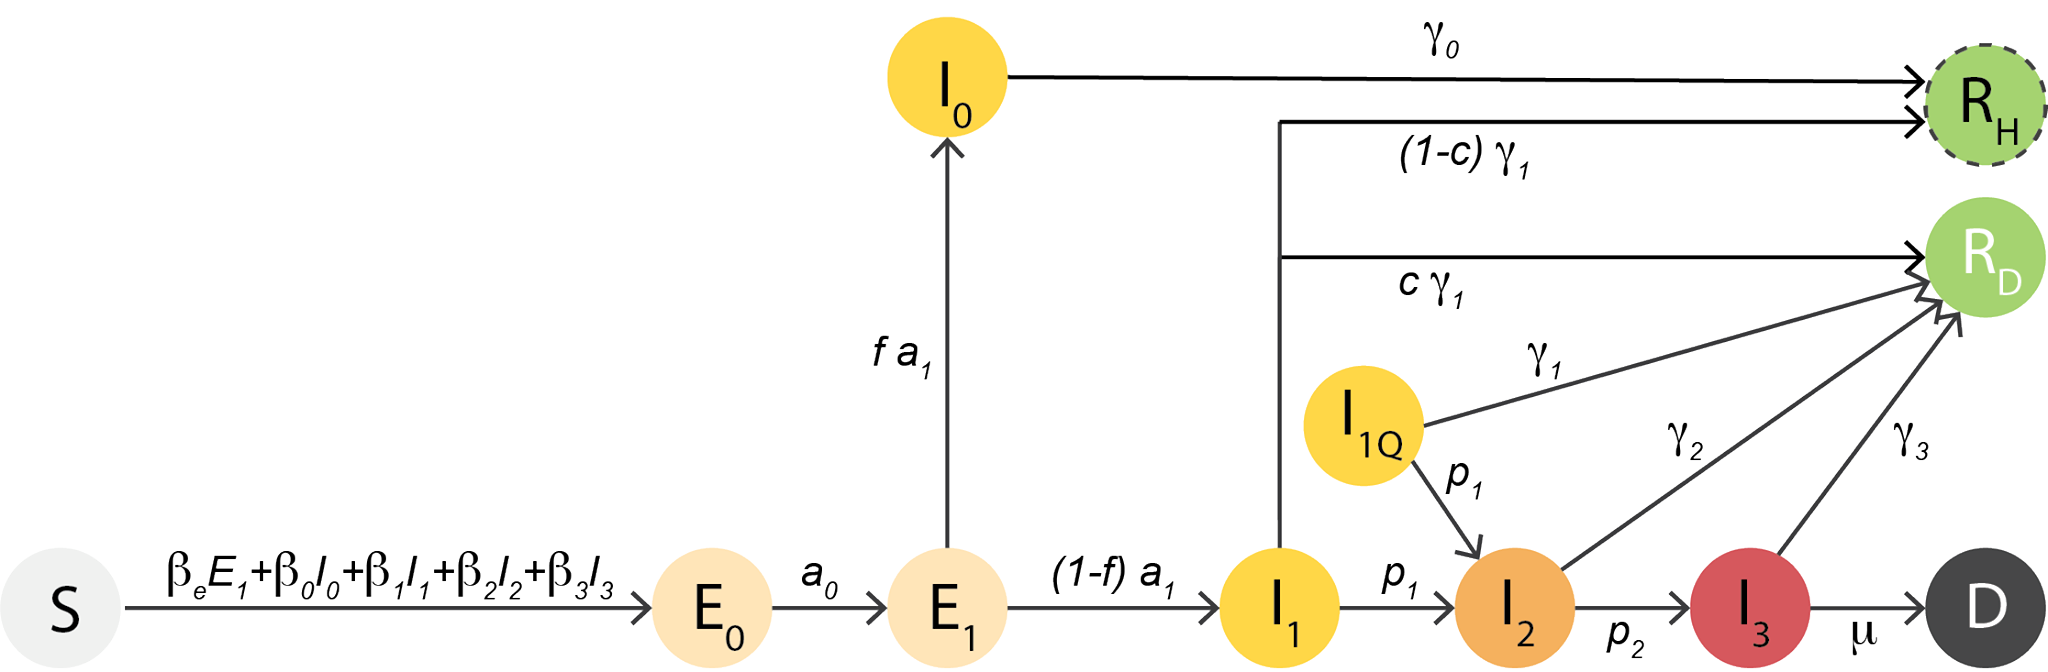
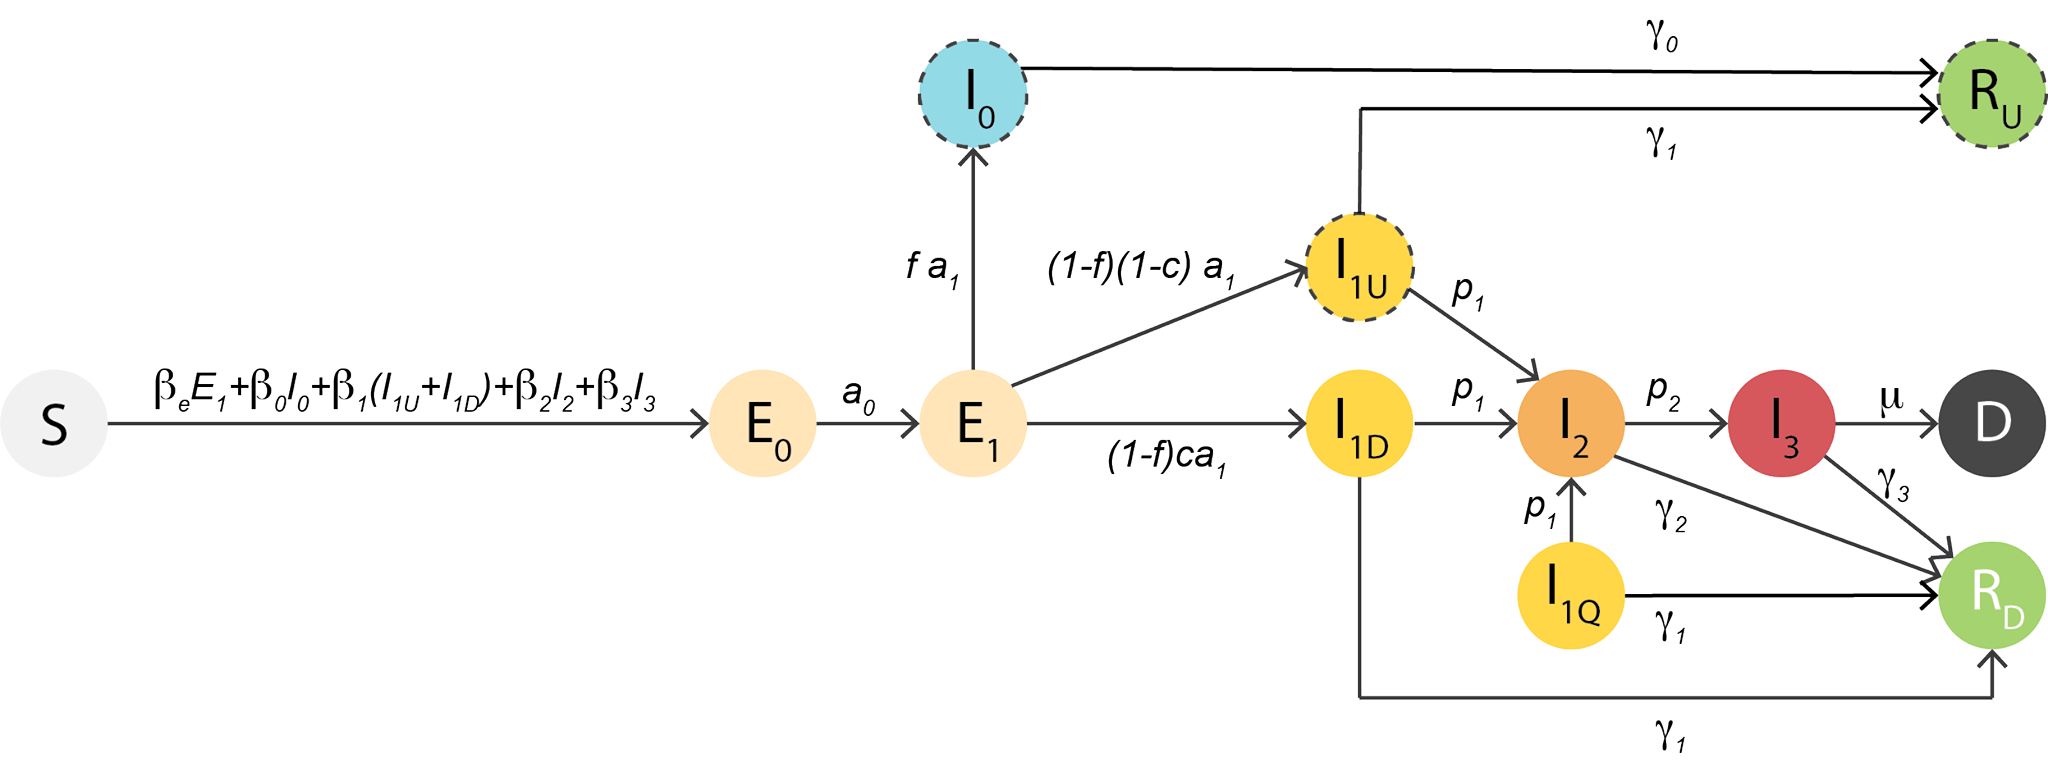
Updated model schematic. Added code to show the prediction error as parameters are changed.

diff --git a/dashboard/plot_data.js b/dashboard/plot_data.js
@@ -31,24 +31,25 @@ var data_start_dates = {
     "Sri Lanka": "2020-03-01"
 };
 
-var custom_interventions = {
+var custom_country_data = {
   "Sri Lanka" : {
-      t_start: [0, 13],
-      b1N: [0.85, 0.125],
-      b2N: [0, 0],
+      t_start: [0, 13], //indices to start dates of any interventions
+      b1N: [0.85, 0.125], //values of b1N for each intervention segment defined in t_start
+      b2N: [0, 0], //values of b2N
       b3N: [0, 0],
-      diag_frac: [0.11, 0.11]
+      diag_frac: [0.11, 0.11],
+      E0_0: 5, //no. of individuals exposed at start
+      Rd_0: 1, //no. of recovered-diagnosed individuals at start
   }
 }
 
 //The control parameters will be set to these default values when the user first loads the page.
 var default_controls = {
   T_pred: 7,    //prediction length
-  b1N: 0.3,     //beta_1 value
+  b1N: 0.0,     //beta_1 value
   b2N: 0.0,     //beta_2 value
   b3N: 0.0,     //beta_3 value
-  diag_frac: 0.5,
-  country: "Sri Lanka"
+  diag_frac: 0.5 //fraction of mild-patients that are diagnosed
 }
 
 //Storage for real and predicted data to be plotted on chart: {categorized, total}
@@ -62,14 +63,13 @@ var control_chart_active_point = null;
 var control_chart_canvas = null;
 var last_active_tooltip_day = 0;
 var active_control_parameter = "b1N";
-var active_country = default_controls.country;
+var active_country = "Sri Lanka";
 
 
 window.onload = function()
 {
   generateCountryDropDown();
-
-  changeCountry(default_controls.country);
+  changeCountry(active_country);
 
   //Update UI controls to match default values
   document.getElementById("slider_finalT").value = default_controls.T_pred;
@@ -90,7 +90,7 @@ function generateCountryDropDown()
     option.text = name;
     menu.add(option);
   }
-  menu.value = default_controls.country;
+  menu.value = active_country;
 }
 
 function changeCountry(country_name)
@@ -98,9 +98,9 @@ function changeCountry(country_name)
   active_country = country_name;
   data_real = getCountryData(country_name);
   sim_params = initializeSimulationParameters(data_real.total.length, default_controls.T_pred);
-  customizeParametersByCountry(country_name, sim_params);
 
   data_predicted = getPredictionData(data_real.total[0].t);
+  document.getElementById("prediction_error").innerHTML = getCurrentPredictionError().toFixed(3);
 
   if (main_chart)
     refreshAllChartData();
@@ -162,20 +162,27 @@ function getCountryData(country_name)
 
 function customizeParametersByCountry(country_name, params)
 {
-  let intervention_data = custom_interventions[country_name];
-  if (intervention_data)
+  let data = custom_country_data[country_name];
+  if (data)
   {
-    for (let i = 0; i < intervention_data.t_start.length; ++i)
+    for (let i = 0; i < data.t_start.length; ++i)
     {
-      let j_end = (i < intervention_data.t_start.length-1) ? intervention_data.t_start[i+1] : params.b1N.length;
-      for (let j = intervention_data.t_start[i]; j < j_end; ++j)
+      let j_end = (i < data.t_start.length-1) ? data.t_start[i+1] : params.b1N.length;
+      for (let j = data.t_start[i]; j < j_end; ++j)
       {
-        params.b1N[j] = intervention_data.b1N[i];
-        params.b2N[j] = intervention_data.b2N[i];
-        params.b3N[j] = intervention_data.b3N[i];
-        params.diag_frac[j] = intervention_data.diag_frac[i];
+        params.b1N[j] = data.b1N[i];
+        params.b2N[j] = data.b2N[i];
+        params.b3N[j] = data.b3N[i];
+        params.diag_frac[j] = data.diag_frac[i];
       }
     }
+
+    //Update initial E0 and Ru
+    if (data.E0_0)
+      params.E0_0 = data.E0_0;
+
+    if (data.Rd_0)
+      params.Rd_0 = data.Rd_0;
   }
 
   //Update quarantine input data
@@ -183,12 +190,11 @@ function customizeParametersByCountry(country_name, params)
     params.quarantine_input[i] = data_real.categorized[i].y[3];
 
   //Update population
-  params.population = population_data[country_name];
-  if (!params.population)
-  {
+  let N = population_data[country_name];
+  if (N)
+    params.population = N;
+  else
     console.log("Population data not found!");
-    params.population = 10E+6;
-  }
 }
 
 function formatNumber(num) {
@@ -820,9 +826,9 @@ function initializeSimulationParameters(hist_length, pred_length)
     b3N: new Array(total_length).fill(default_controls.b3N),            //transmission rate from critical to susceptible
     quarantine_input: new Array(total_length).fill(0.0),                //no. of patients added directly to quarantine
     diag_frac: new Array(total_length).fill(default_controls.diag_frac),//fraction of I1 patients that are diagnosed
-    population: population_data[default_controls.country],              //population of Sri Lanka
-    E0_0: 5,                                                            //number of non-infectious exposed individuals at start
-    Rd_0: 1,                                                            //number of recovered-diagnosed individuals at start
+    population: 1E7,                                                    //population of country
+    E0_0: 1,                                                            //number of non-infectious exposed individuals at start
+    Rd_0: 0,                                                            //number of recovered-diagnosed individuals at start
     //rate parameters below [1/day]
     a0: (1/T_incub0) * prob_E0_E1,
     a10: (1/T_incub1) * prob_E1_I0,
@@ -835,6 +841,9 @@ function initializeSimulationParameters(hist_length, pred_length)
     g3: (1/T_icu)    * prob_I3_R,
     mu: (1/T_icu)    * prob_I3_D,
   }
+
+  //Modify any parameters that are specific to the currently active country.
+  customizeParametersByCountry(active_country, params);
 
   return params;
 }
@@ -859,6 +868,7 @@ function updateParameters(force = false)
   {
     data_predicted = getPredictionData(data_real.total[0].t);
     refreshAllChartData();
+    document.getElementById("prediction_error").innerHTML = getCurrentPredictionError().toFixed(3);
   }
 }
 
@@ -1139,6 +1149,24 @@ function getFitJacobian(params)
   // }
 
   return jac;
+}
+
+function getCurrentPredictionError()
+{
+  let res_sq = 0.0, res0_sq = 0.0;
+  for (let i = 1; i < data_real.total.length; ++i)
+  {
+    let active_true = data_real.categorized[i].y[0] - data_real.categorized[i].y[1] - data_real.categorized[i].y[2];
+    let active_pred = data_predicted.categorized[7][i].y + data_predicted.categorized[8][i].y + data_predicted.categorized[9][i].y;
+
+    let err_a = active_pred - active_true;
+    let err_r = data_predicted.categorized[5][i].y - data_real.categorized[i].y[1]; //recovered
+    let err_d = data_predicted.categorized[6][i].y - data_real.categorized[i].y[2]; //fatal
+
+    res_sq += err_a*err_a + err_r*err_r + err_d*err_d;
+    res0_sq += active_true*active_true + data_real.categorized[i].y[1]*data_real.categorized[i].y[1] + data_real.categorized[i].y[2]*data_real.categorized[i].y[2];
+  }
+  return Math.sqrt(res_sq)/Math.sqrt(res0_sq);
 }
 
 function getL2Norm(vec)

diff --git a/dashboard/index.html b/dashboard/index.html
@@ -102,7 +102,7 @@
                 <div class="severe" style="text-indent:1em;">- Severe</div>
                 <div class="mild" style="text-indent:1em;">- Mild</div>
                 <hr>
-                <div>Total cases</div>
+                <div>Total reported cases</div>
               </div>
               <div class="legend_column" style="width:25%; padding-right:5px;">
                 <b><div class="legend_value" style="padding-bottom:5px">Predicted</div></b>
@@ -189,6 +189,11 @@
 
       </div>
       <div class="column" style="width:80%;">
+        <div class="small" style="text-align:right; color:grey;">
+          <span class="tooltip">Prediction error:
+            <span class="tiny tooltiptext">This is an estimate of the error between the predicted data and the real data. Smaller error values indicate a better fit.</span>
+          </span>&nbsp;<span id="prediction_error">0.0</span>
+        </div>
         <canvas class="full" id="control_chart_canvas"></canvas>
         <!-- <br> -->
         <center><div class="tiny" style="color:grey">Simulate the effect of interventions such as lockdowns and curfews by clicking and dragging points on the graph.</div></center>
@@ -216,12 +221,13 @@
               <li>\(E_0\) - Exposed individuals before they become infectious</li>
               <li>\(E_1\) - Exposed individuals after they are infectious</li>
               <li>\(I_0\) - Asymptomatic individuals</li>
-              <li>\(I_1\) - Infected individuals with mild symptoms</li>
+              <li>\(I_{1D}\) - Infected individuals with mild symptoms who have been diagnosed</li>
+              <li>\(I_{1U}\) - Infected individuals with mild symptoms who are unreported</li>
               <li>\(I_{1Q}\) - Infected individuals with mild symptoms who were directly quarantined upon entry</li>
               <li>\(I_2\) - Infected individuals with severe symptoms (require hospitalization)</li>
               <li>\(I_3\) - Infected individuals at critical stage (require ICU admission)</li>
-              <li>\(R_H\) - Recovered individuals that have not been tested</li>
-              <li>\(R_D\) - Recovered individuals that were diagnosed positive</li>
+              <li>\(R_D\) - Recovered individuals who were diagnosed positive</li>
+              <li>\(R_U\) - Recovered individuals who are unreported</li>
               <li>\(D\) - Fatalities</li>
             </ul>
           </p>

diff --git a/dashboard/styles.css b/dashboard/styles.css
@@ -113,21 +113,27 @@ input.control.intervention {
 
 .tooltip .tooltiptext {
   visibility: hidden;
-  width: 150px;
-  background-color: black;
+  width: 200px;
+  background-color: #666;
   color: #fff;
   text-align: center;
   border-radius: 6px;
-  padding: 5px 0;
+  padding: 5px;
 
   /* Position the tooltip */
   position: absolute;
   top: 2em;
+  left: 60%;
   z-index: 1;
+
+  /* Fade in tooltip */
+  opacity: 0;
+  transition: opacity 0.5s;
 }
 
 .tooltip:hover .tooltiptext {
   visibility: visible;
+  opacity: 1;
 }
 
 ul li {
